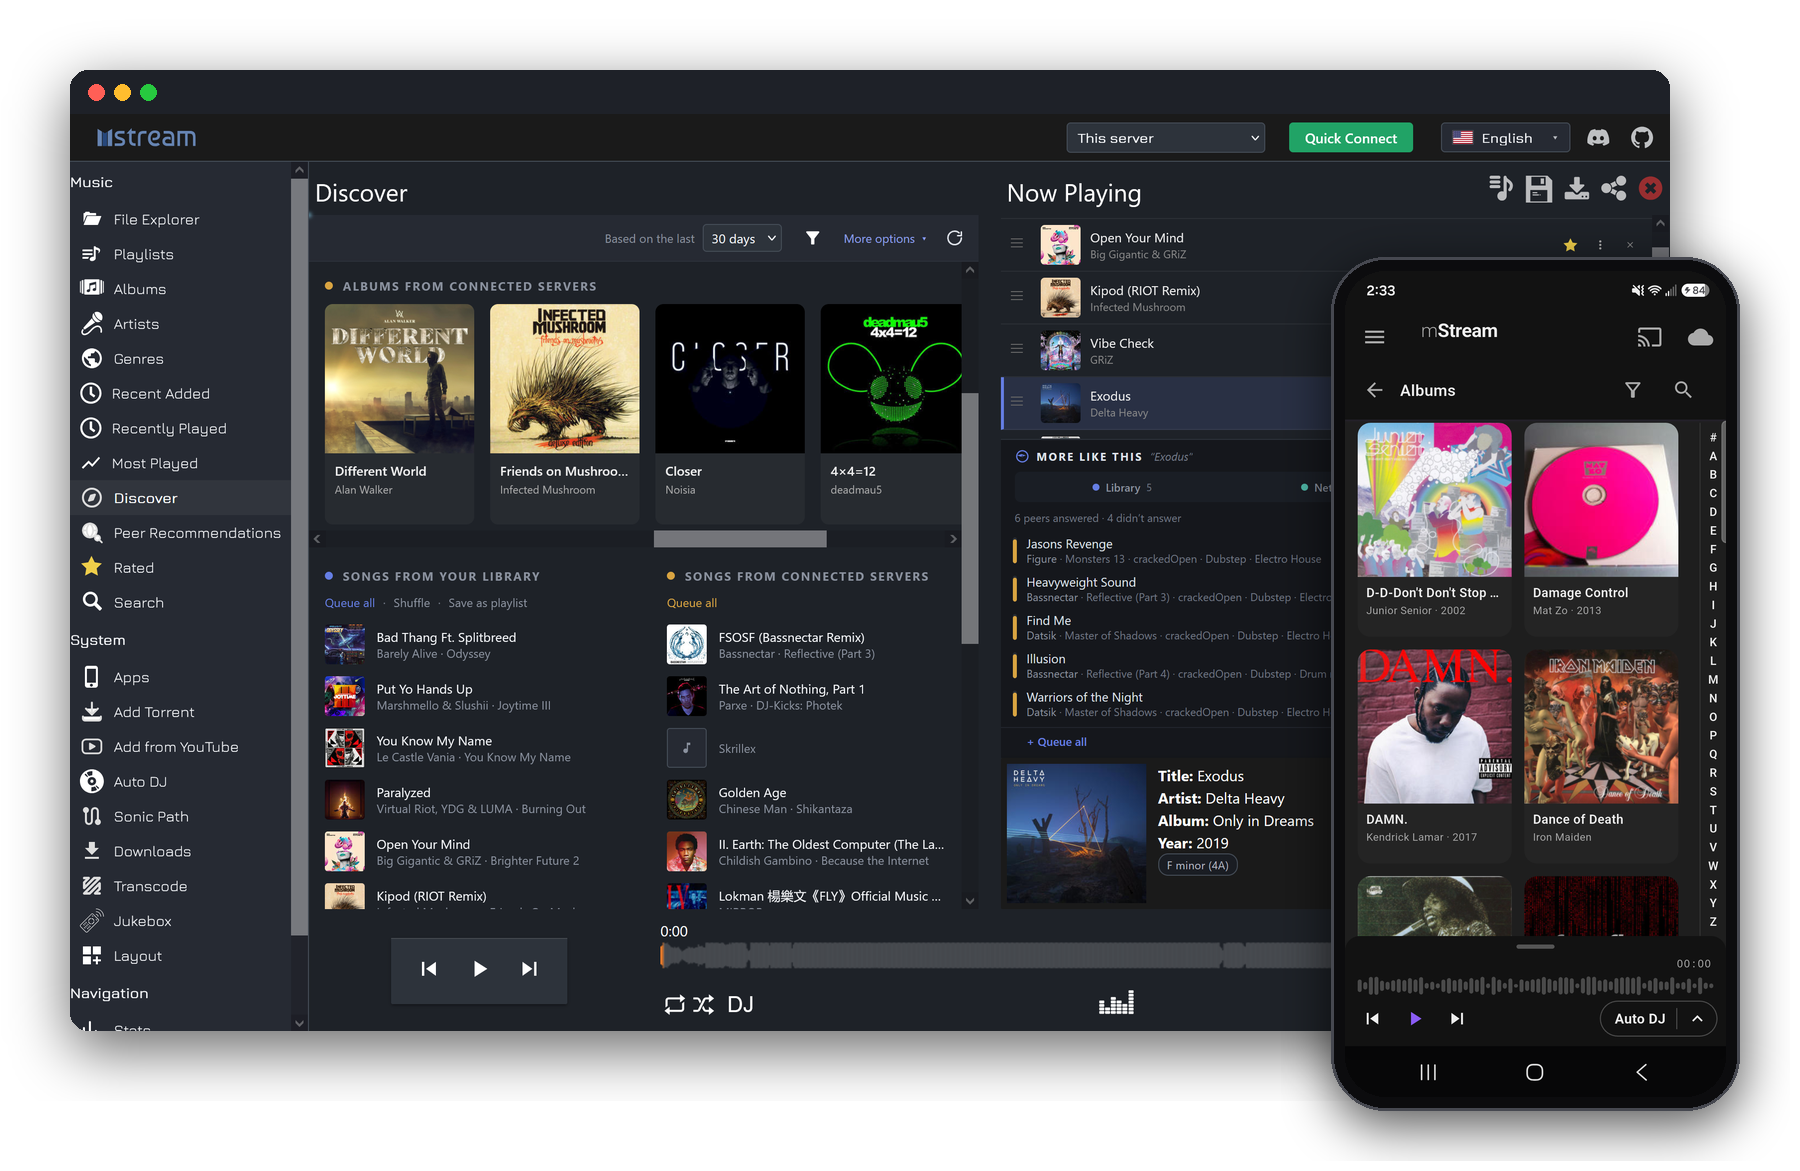
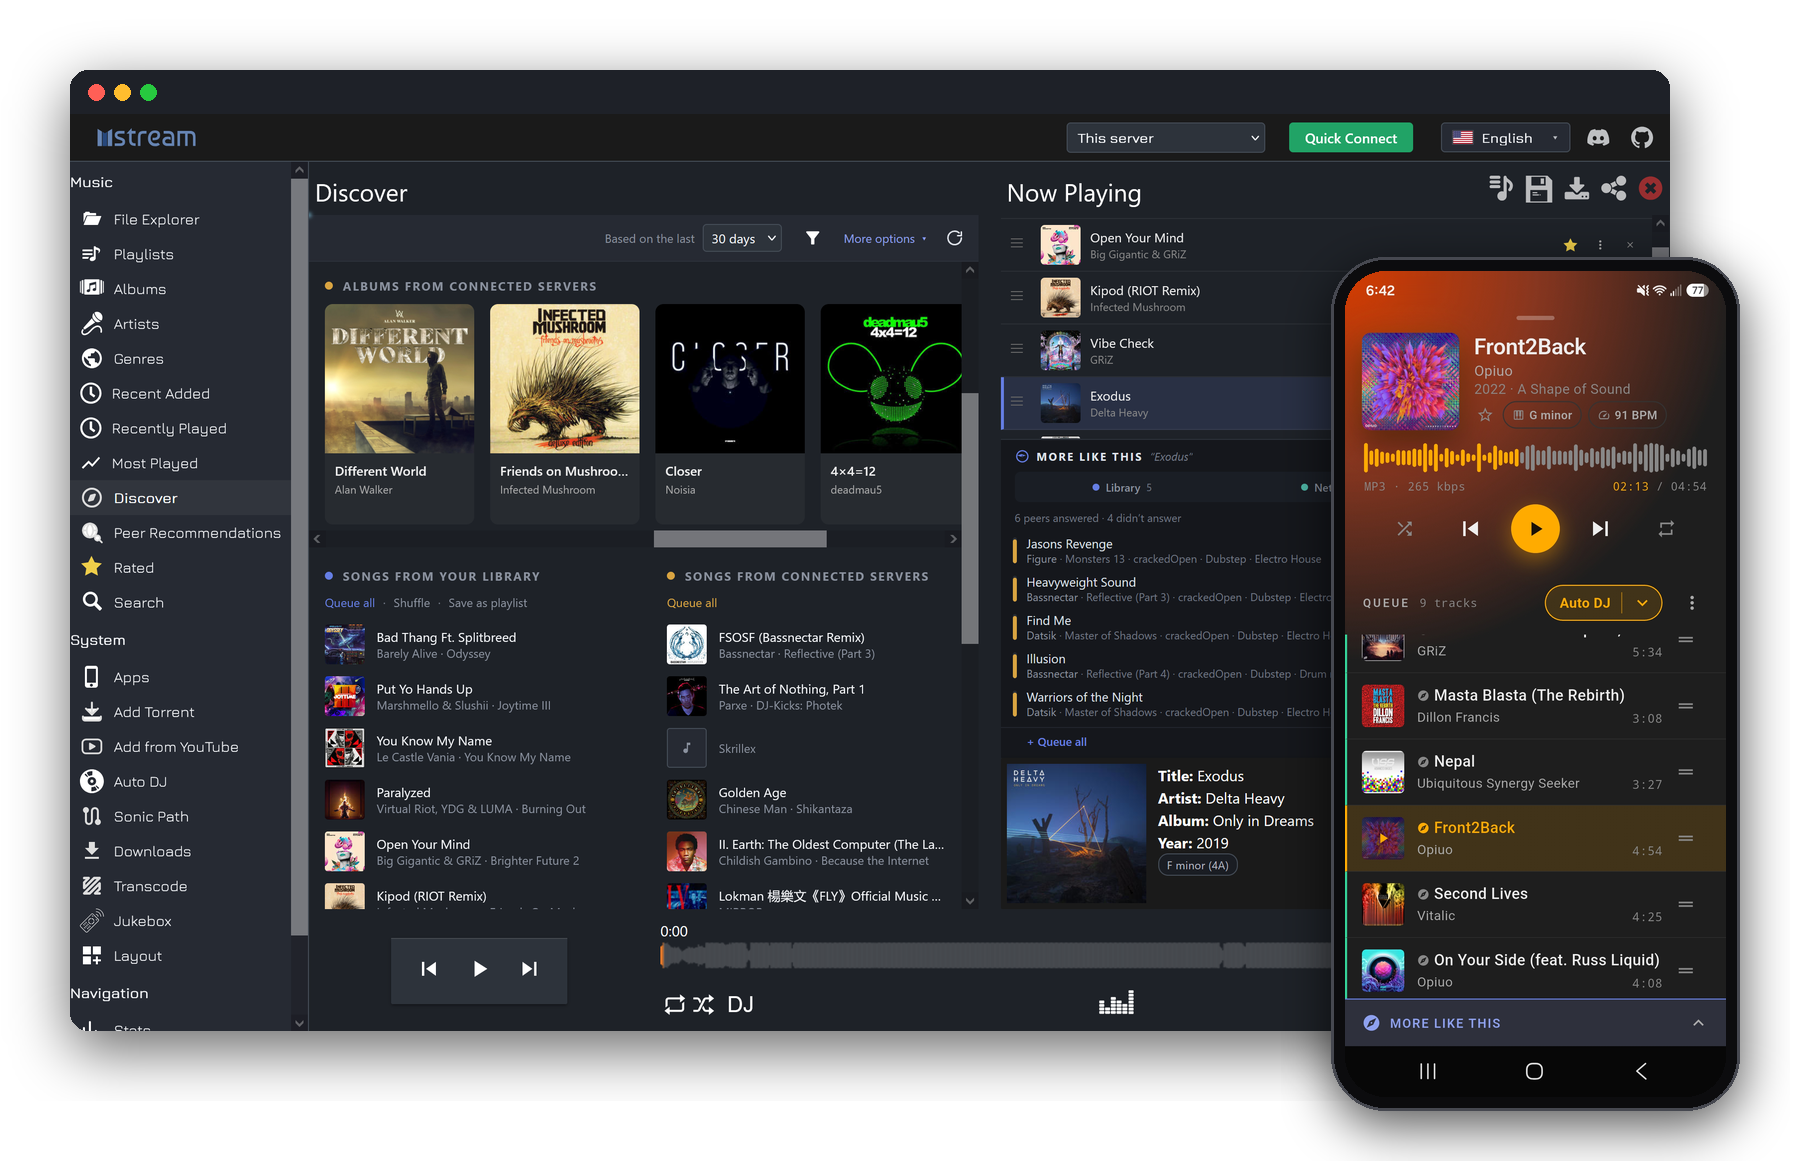
docs(readme): add server download table, use a Now Playing phone shot in the hero
Fill the server download links in under "Binaries for Download": a
per-platform table pointing at the latest release, plus a pointer to
mstream.io/server for direct buttons. Release asset names carry the
version, so direct file links would go stale each release.

Put the Docker pulls badge back on its own line, and carry all of the
above into the nine translations in docs/readme.

Swap the phone half of the hero image for a Now Playing screenshot.

Changed region(s): [[0.7467, 0.2152, 0.9644, 0.9223]]

diff --git a/docs/readme/README.ru.md b/docs/readme/README.ru.md
@@ -29,7 +29,9 @@
 
 ## Установка сервера mStream
 
-#### Docker [![Docker Pulls](https://img.shields.io/docker/pulls/linuxserver/mstream)](https://hub.docker.com/r/linuxserver/mstream)
+#### Docker
+
+[![Docker Pulls](https://img.shields.io/docker/pulls/linuxserver/mstream)](https://hub.docker.com/r/linuxserver/mstream)
 
 Попробуйте, выполнив следующую команду.
 
@@ -43,11 +45,19 @@ docker run -d --name=mstream -p 3000:3000 \
 
 #### Бинарные сборки для скачивания
 
-Установщики и портативные сборки [доступны для macOS, Windows и Linux](https://mstream.io/server). В бинарных сборках есть несколько дополнительных возможностей, которых нет в версии для Docker:
+В бинарных сборках есть несколько дополнительных возможностей, которых нет в версии для Docker:
 
 * Автоматические обновления
 * Воспроизведение звука на стороне сервера
 * Графический интерфейс для настройки
+
+| Платформа | Скачать |
+|---|---|
+| Windows x64 | [Установщик (`setup.exe`) или портативный `.zip`](https://github.com/IrosTheBeggar/mStream/releases/latest) |
+| macOS (Apple Silicon и Intel) | [Установщик (`.pkg`) или портативный `.zip`](https://github.com/IrosTheBeggar/mStream/releases/latest) |
+| Linux (x64 и arm64) | [`.deb`, `.rpm` или портативный `.zip`](https://github.com/IrosTheBeggar/mStream/releases/latest) |
+
+Кнопки прямой загрузки текущей версии находятся на [mstream.io/server](https://mstream.io/server).
 
 #### CLI-скрипты
 

diff --git a/docs/readme/README.ja.md b/docs/readme/README.ja.md
@@ -29,7 +29,9 @@
 
 ## mStream サーバーのインストール
 
-#### Docker [![Docker Pulls](https://img.shields.io/docker/pulls/linuxserver/mstream)](https://hub.docker.com/r/linuxserver/mstream)
+#### Docker
+
+[![Docker Pulls](https://img.shields.io/docker/pulls/linuxserver/mstream)](https://hub.docker.com/r/linuxserver/mstream)
 
 次のコマンドを実行して試せます。
 
@@ -43,11 +45,19 @@ docker run -d --name=mstream -p 3000:3000 \
 
 #### バイナリのダウンロード
 
-インストーラーとポータブル版のバイナリを [macOS、Windows、Linux 向けに提供しています](https://mstream.io/server)。バイナリ版には、Docker 版にはない追加機能があります。
+バイナリ版には、Docker 版にはない追加機能があります。
 
 * 自動アップデート
 * サーバー側でのオーディオ再生
 * セットアップ用の GUI
+
+| プラットフォーム | ダウンロード |
+|---|---|
+| Windows x64 | [インストーラー (`setup.exe`) またはポータブル版 `.zip`](https://github.com/IrosTheBeggar/mStream/releases/latest) |
+| macOS (Apple シリコン / Intel) | [インストーラー (`.pkg`) またはポータブル版 `.zip`](https://github.com/IrosTheBeggar/mStream/releases/latest) |
+| Linux (x64 / arm64) | [`.deb`、`.rpm`、またはポータブル版 `.zip`](https://github.com/IrosTheBeggar/mStream/releases/latest) |
+
+最新バージョンの直接ダウンロードボタンは [mstream.io/server](https://mstream.io/server) にあります。
 
 #### CLI スクリプト
 

diff --git a/docs/readme/README.fr.md b/docs/readme/README.fr.md
@@ -29,7 +29,9 @@
 
 ## Installer le serveur mStream
 
-#### Docker [![Docker Pulls](https://img.shields.io/docker/pulls/linuxserver/mstream)](https://hub.docker.com/r/linuxserver/mstream)
+#### Docker
+
+[![Docker Pulls](https://img.shields.io/docker/pulls/linuxserver/mstream)](https://hub.docker.com/r/linuxserver/mstream)
 
 Essayez-le en exécutant la commande suivante.
 
@@ -43,11 +45,19 @@ docker run -d --name=mstream -p 3000:3000 \
 
 #### Binaires à télécharger
 
-Des installateurs et des binaires portables sont [disponibles pour macOS, Windows et Linux](https://mstream.io/server). Ces versions binaires offrent quelques fonctionnalités supplémentaires absentes de la version Docker :
+Les versions binaires offrent quelques fonctionnalités supplémentaires absentes de la version Docker :
 
 * Mises à jour automatiques
 * Lecture audio côté serveur
 * Une interface graphique pour la configuration
+
+| Plateforme | Téléchargement |
+|---|---|
+| Windows x64 | [Installateur (`setup.exe`) ou `.zip` portable](https://github.com/IrosTheBeggar/mStream/releases/latest) |
+| macOS (Apple Silicon et Intel) | [Installateur (`.pkg`) ou `.zip` portable](https://github.com/IrosTheBeggar/mStream/releases/latest) |
+| Linux (x64 et arm64) | [`.deb`, `.rpm` ou `.zip` portable](https://github.com/IrosTheBeggar/mStream/releases/latest) |
+
+Les boutons de téléchargement direct de la version actuelle se trouvent sur [mstream.io/server](https://mstream.io/server).
 
 #### Scripts CLI
 

diff --git a/docs/readme/README.it.md b/docs/readme/README.it.md
@@ -29,7 +29,9 @@
 
 ## Installare mStream Server
 
-#### Docker [![Docker Pulls](https://img.shields.io/docker/pulls/linuxserver/mstream)](https://hub.docker.com/r/linuxserver/mstream)
+#### Docker
+
+[![Docker Pulls](https://img.shields.io/docker/pulls/linuxserver/mstream)](https://hub.docker.com/r/linuxserver/mstream)
 
 Provalo eseguendo il seguente comando.
 
@@ -43,11 +45,19 @@ docker run -d --name=mstream -p 3000:3000 \
 
 #### Binari da scaricare
 
-Programmi di installazione e binari portabili sono [disponibili per macOS, Windows e Linux](https://mstream.io/server). Queste versioni binarie includono alcune funzionalità aggiuntive non disponibili nella versione Docker:
+Le versioni binarie includono alcune funzionalità aggiuntive non disponibili nella versione Docker:
 
 * Aggiornamenti automatici
 * Riproduzione audio lato server
 * Un'interfaccia grafica per la configurazione
+
+| Piattaforma | Download |
+|---|---|
+| Windows x64 | [Programma di installazione (`setup.exe`) o `.zip` portabile](https://github.com/IrosTheBeggar/mStream/releases/latest) |
+| macOS (Apple Silicon e Intel) | [Programma di installazione (`.pkg`) o `.zip` portabile](https://github.com/IrosTheBeggar/mStream/releases/latest) |
+| Linux (x64 e arm64) | [`.deb`, `.rpm` o `.zip` portabile](https://github.com/IrosTheBeggar/mStream/releases/latest) |
+
+I pulsanti per il download diretto della versione corrente sono su [mstream.io/server](https://mstream.io/server).
 
 #### Script CLI
 

diff --git a/docs/readme/README.es.md b/docs/readme/README.es.md
@@ -29,7 +29,9 @@
 
 ## Instalar el servidor mStream
 
-#### Docker [![Docker Pulls](https://img.shields.io/docker/pulls/linuxserver/mstream)](https://hub.docker.com/r/linuxserver/mstream)
+#### Docker
+
+[![Docker Pulls](https://img.shields.io/docker/pulls/linuxserver/mstream)](https://hub.docker.com/r/linuxserver/mstream)
 
 Pruébalo ejecutando el siguiente comando.
 
@@ -43,11 +45,19 @@ docker run -d --name=mstream -p 3000:3000 \
 
 #### Binarios para descargar
 
-Hay instaladores y binarios portables [disponibles para macOS, Windows y Linux](https://mstream.io/server). Estas versiones binarias incluyen algunas funciones adicionales que no están disponibles en la versión de Docker:
+Las versiones binarias incluyen algunas funciones adicionales que no están disponibles en la versión de Docker:
 
 * Actualizaciones automáticas
 * Reproducción de audio en el servidor
 * Una interfaz gráfica para la configuración
+
+| Plataforma | Descarga |
+|---|---|
+| Windows x64 | [Instalador (`setup.exe`) o `.zip` portable](https://github.com/IrosTheBeggar/mStream/releases/latest) |
+| macOS (Apple Silicon e Intel) | [Instalador (`.pkg`) o `.zip` portable](https://github.com/IrosTheBeggar/mStream/releases/latest) |
+| Linux (x64 y arm64) | [`.deb`, `.rpm` o `.zip` portable](https://github.com/IrosTheBeggar/mStream/releases/latest) |
+
+Los botones de descarga directa de la versión actual están en [mstream.io/server](https://mstream.io/server).
 
 #### Scripts de CLI
 

diff --git a/docs/readme/README.de.md b/docs/readme/README.de.md
@@ -29,7 +29,9 @@
 
 ## mStream Server installieren
 
-#### Docker [![Docker Pulls](https://img.shields.io/docker/pulls/linuxserver/mstream)](https://hub.docker.com/r/linuxserver/mstream)
+#### Docker
+
+[![Docker Pulls](https://img.shields.io/docker/pulls/linuxserver/mstream)](https://hub.docker.com/r/linuxserver/mstream)
 
 Probiere es mit dem folgenden Befehl aus.
 
@@ -43,11 +45,19 @@ docker run -d --name=mstream -p 3000:3000 \
 
 #### Binärdateien zum Download
 
-Installer und portable Binärdateien sind [für macOS, Windows und Linux verfügbar](https://mstream.io/server). Diese Binär-Builds bieten einige zusätzliche Funktionen, die es in der Docker-Version nicht gibt:
+Die Binär-Builds bieten einige zusätzliche Funktionen, die es in der Docker-Version nicht gibt:
 
 * Automatische Updates
 * Audiowiedergabe direkt auf dem Server
 * Eine grafische Oberfläche für die Einrichtung
+
+| Plattform | Download |
+|---|---|
+| Windows x64 | [Installer (`setup.exe`) oder portable `.zip`](https://github.com/IrosTheBeggar/mStream/releases/latest) |
+| macOS (Apple Silicon und Intel) | [Installer (`.pkg`) oder portable `.zip`](https://github.com/IrosTheBeggar/mStream/releases/latest) |
+| Linux (x64 und arm64) | [`.deb`, `.rpm` oder portable `.zip`](https://github.com/IrosTheBeggar/mStream/releases/latest) |
+
+Direkte Download-Buttons für die aktuelle Version gibt es auf [mstream.io/server](https://mstream.io/server).
 
 #### CLI-Skripte
 

diff --git a/docs/readme/README.pl.md b/docs/readme/README.pl.md
@@ -29,7 +29,9 @@
 
 ## Instalacja serwera mStream
 
-#### Docker [![Docker Pulls](https://img.shields.io/docker/pulls/linuxserver/mstream)](https://hub.docker.com/r/linuxserver/mstream)
+#### Docker
+
+[![Docker Pulls](https://img.shields.io/docker/pulls/linuxserver/mstream)](https://hub.docker.com/r/linuxserver/mstream)
 
 Wypróbuj go, uruchamiając poniższe polecenie.
 
@@ -43,11 +45,19 @@ docker run -d --name=mstream -p 3000:3000 \
 
 #### Pliki binarne do pobrania
 
-Instalatory i przenośne pliki binarne są [dostępne dla systemów macOS, Windows i Linux](https://mstream.io/server). Wersje binarne mają kilka dodatkowych funkcji, których nie ma w wersji Docker:
+Wersje binarne mają kilka dodatkowych funkcji, których nie ma w wersji Docker:
 
 * Automatyczne aktualizacje
 * Odtwarzanie dźwięku po stronie serwera
 * Graficzny interfejs konfiguracji
+
+| Platforma | Pobieranie |
+|---|---|
+| Windows x64 | [Instalator (`setup.exe`) lub przenośny `.zip`](https://github.com/IrosTheBeggar/mStream/releases/latest) |
+| macOS (Apple Silicon i Intel) | [Instalator (`.pkg`) lub przenośny `.zip`](https://github.com/IrosTheBeggar/mStream/releases/latest) |
+| Linux (x64 i arm64) | [`.deb`, `.rpm` lub przenośny `.zip`](https://github.com/IrosTheBeggar/mStream/releases/latest) |
+
+Przyciski bezpośredniego pobierania aktualnej wersji znajdują się na [mstream.io/server](https://mstream.io/server).
 
 #### Skrypty CLI
 

diff --git a/docs/readme/README.pt.md b/docs/readme/README.pt.md
@@ -29,7 +29,9 @@
 
 ## Instalar o servidor mStream
 
-#### Docker [![Docker Pulls](https://img.shields.io/docker/pulls/linuxserver/mstream)](https://hub.docker.com/r/linuxserver/mstream)
+#### Docker
+
+[![Docker Pulls](https://img.shields.io/docker/pulls/linuxserver/mstream)](https://hub.docker.com/r/linuxserver/mstream)
 
 Experimente executando o comando a seguir.
 
@@ -43,11 +45,19 @@ docker run -d --name=mstream -p 3000:3000 \
 
 #### Binários para download
 
-Instaladores e binários portáteis estão [disponíveis para macOS, Windows e Linux](https://mstream.io/server). Essas versões binárias trazem alguns recursos extras que não existem na versão Docker:
+As versões binárias trazem alguns recursos extras que não existem na versão Docker:
 
 * Atualizações automáticas
 * Reprodução de áudio no servidor
 * Uma interface gráfica para a configuração
+
+| Plataforma | Download |
+|---|---|
+| Windows x64 | [Instalador (`setup.exe`) ou `.zip` portátil](https://github.com/IrosTheBeggar/mStream/releases/latest) |
+| macOS (Apple Silicon e Intel) | [Instalador (`.pkg`) ou `.zip` portátil](https://github.com/IrosTheBeggar/mStream/releases/latest) |
+| Linux (x64 e arm64) | [`.deb`, `.rpm` ou `.zip` portátil](https://github.com/IrosTheBeggar/mStream/releases/latest) |
+
+Os botões de download direto da versão atual estão em [mstream.io/server](https://mstream.io/server).
 
 #### Scripts de CLI
 

diff --git a/README.md b/README.md
@@ -28,7 +28,9 @@
 
 ## Install mStream Server
 
-#### Docker [![Docker Pulls](https://img.shields.io/docker/pulls/linuxserver/mstream)](https://hub.docker.com/r/linuxserver/mstream)
+#### Docker
+
+[![Docker Pulls](https://img.shields.io/docker/pulls/linuxserver/mstream)](https://hub.docker.com/r/linuxserver/mstream)
 
 Test it out by running the following command.
 
@@ -42,11 +44,19 @@ docker run -d --name=mstream -p 3000:3000 \
 
 #### Binaries for Download
 
-Installers and portable binaries are [available for macOS, Windows, and Linux](https://mstream.io/server). These binary builds come with some extra features not available in the docker version: 
+The binary builds come with some extra features not available in the docker version: 
 
 * Automatic updates
 * Server side audio playback
 * A GUI for setup
+
+| Platform | Download |
+|---|---|
+| Windows x64 | [Installer (`setup.exe`) or portable `.zip`](https://github.com/IrosTheBeggar/mStream/releases/latest) |
+| macOS (Apple Silicon and Intel) | [Installer (`.pkg`) or portable `.zip`](https://github.com/IrosTheBeggar/mStream/releases/latest) |
+| Linux (x64 and arm64) | [`.deb`, `.rpm` or portable `.zip`](https://github.com/IrosTheBeggar/mStream/releases/latest) |
+
+Direct download buttons for the current version are at [mstream.io/server](https://mstream.io/server).
 
 #### CLI Scripts
 

diff --git a/docs/readme/README.zh.md b/docs/readme/README.zh.md
@@ -29,7 +29,9 @@
 
 ## 安装 mStream 服务器
 
-#### Docker [![Docker Pulls](https://img.shields.io/docker/pulls/linuxserver/mstream)](https://hub.docker.com/r/linuxserver/mstream)
+#### Docker
+
+[![Docker Pulls](https://img.shields.io/docker/pulls/linuxserver/mstream)](https://hub.docker.com/r/linuxserver/mstream)
 
 运行以下命令即可试用。
 
@@ -43,11 +45,19 @@ docker run -d --name=mstream -p 3000:3000 \
 
 #### 二进制文件下载
 
-安装程序和便携版二进制文件[适用于 macOS、Windows 和 Linux](https://mstream.io/server)。二进制版本还提供一些 Docker 版本没有的额外功能：
+二进制版本提供一些 Docker 版本没有的额外功能：
 
 * 自动更新
 * 服务器端音频播放
 * 用于设置的图形界面
+
+| 平台 | 下载 |
+|---|---|
+| Windows x64 | [安装程序 (`setup.exe`) 或便携版 `.zip`](https://github.com/IrosTheBeggar/mStream/releases/latest) |
+| macOS（Apple 芯片和 Intel） | [安装程序 (`.pkg`) 或便携版 `.zip`](https://github.com/IrosTheBeggar/mStream/releases/latest) |
+| Linux（x64 和 arm64） | [`.deb`、`.rpm` 或便携版 `.zip`](https://github.com/IrosTheBeggar/mStream/releases/latest) |
+
+当前版本的直接下载按钮位于 [mstream.io/server](https://mstream.io/server)。
 
 #### 命令行脚本
 
